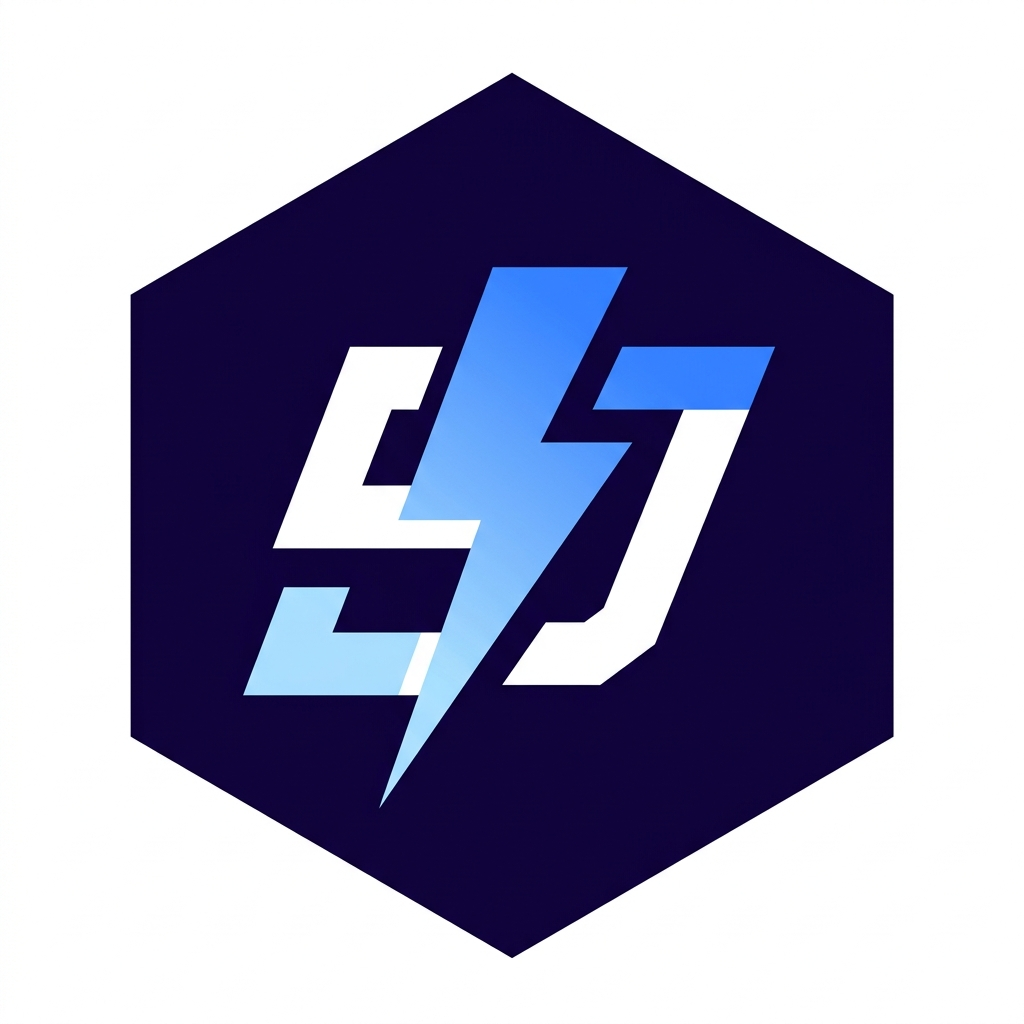
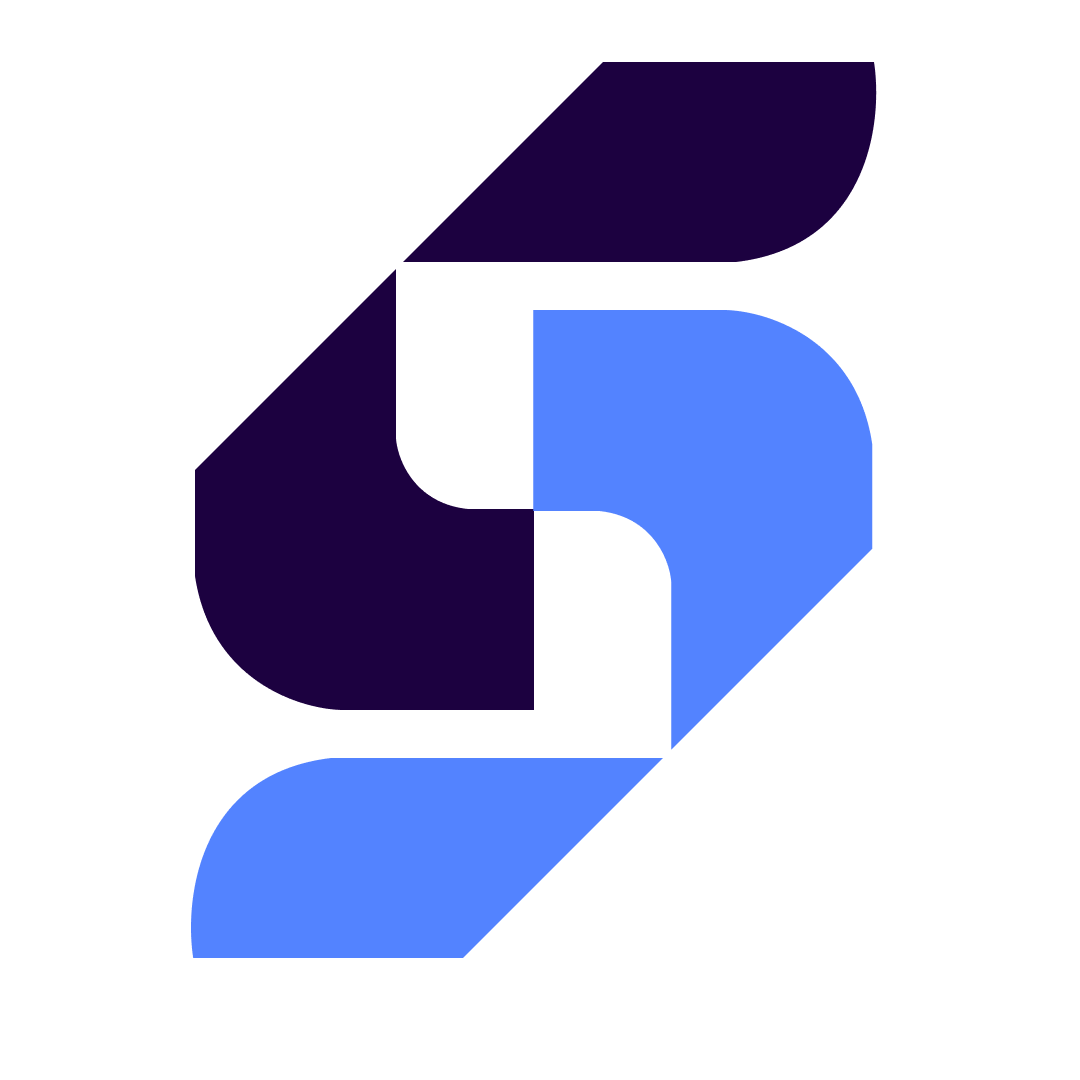
initial commit

diff --git a/app/layout.tsx b/app/layout.tsx
@@ -1,5 +1,6 @@
 import type { Metadata } from "next";
 import { Outfit, Inter } from "next/font/google";
+import { Analytics } from "@vercel/analytics/next";
 import "./globals.css";
 
 const outfit = Outfit({
@@ -52,7 +53,10 @@ export default function RootLayout({
 }>) {
   return (
     <html lang="id" className={`${outfit.variable} ${inter.variable}`}>
-      <body>{children}</body>
+      <body>
+        {children}
+        <Analytics />
+      </body>
     </html>
   );
 }

diff --git a/components/Footer.tsx b/components/Footer.tsx
@@ -30,7 +30,7 @@ export default function Footer() {
           <div className={styles.brand}>
             <a href="#hero" className={styles.logo}>
               <div className={styles.footerLogoIcon}>
-                <Image src="/logo.svg" alt="SINIJOKIAJA" width={34} height={34} />
+                <Image src="/logo.png" alt="SINIJOKIAJA" width={34} height={34} />
               </div>
               <span className={styles.logoText}>SINIJOKIAJA</span>
             </a>